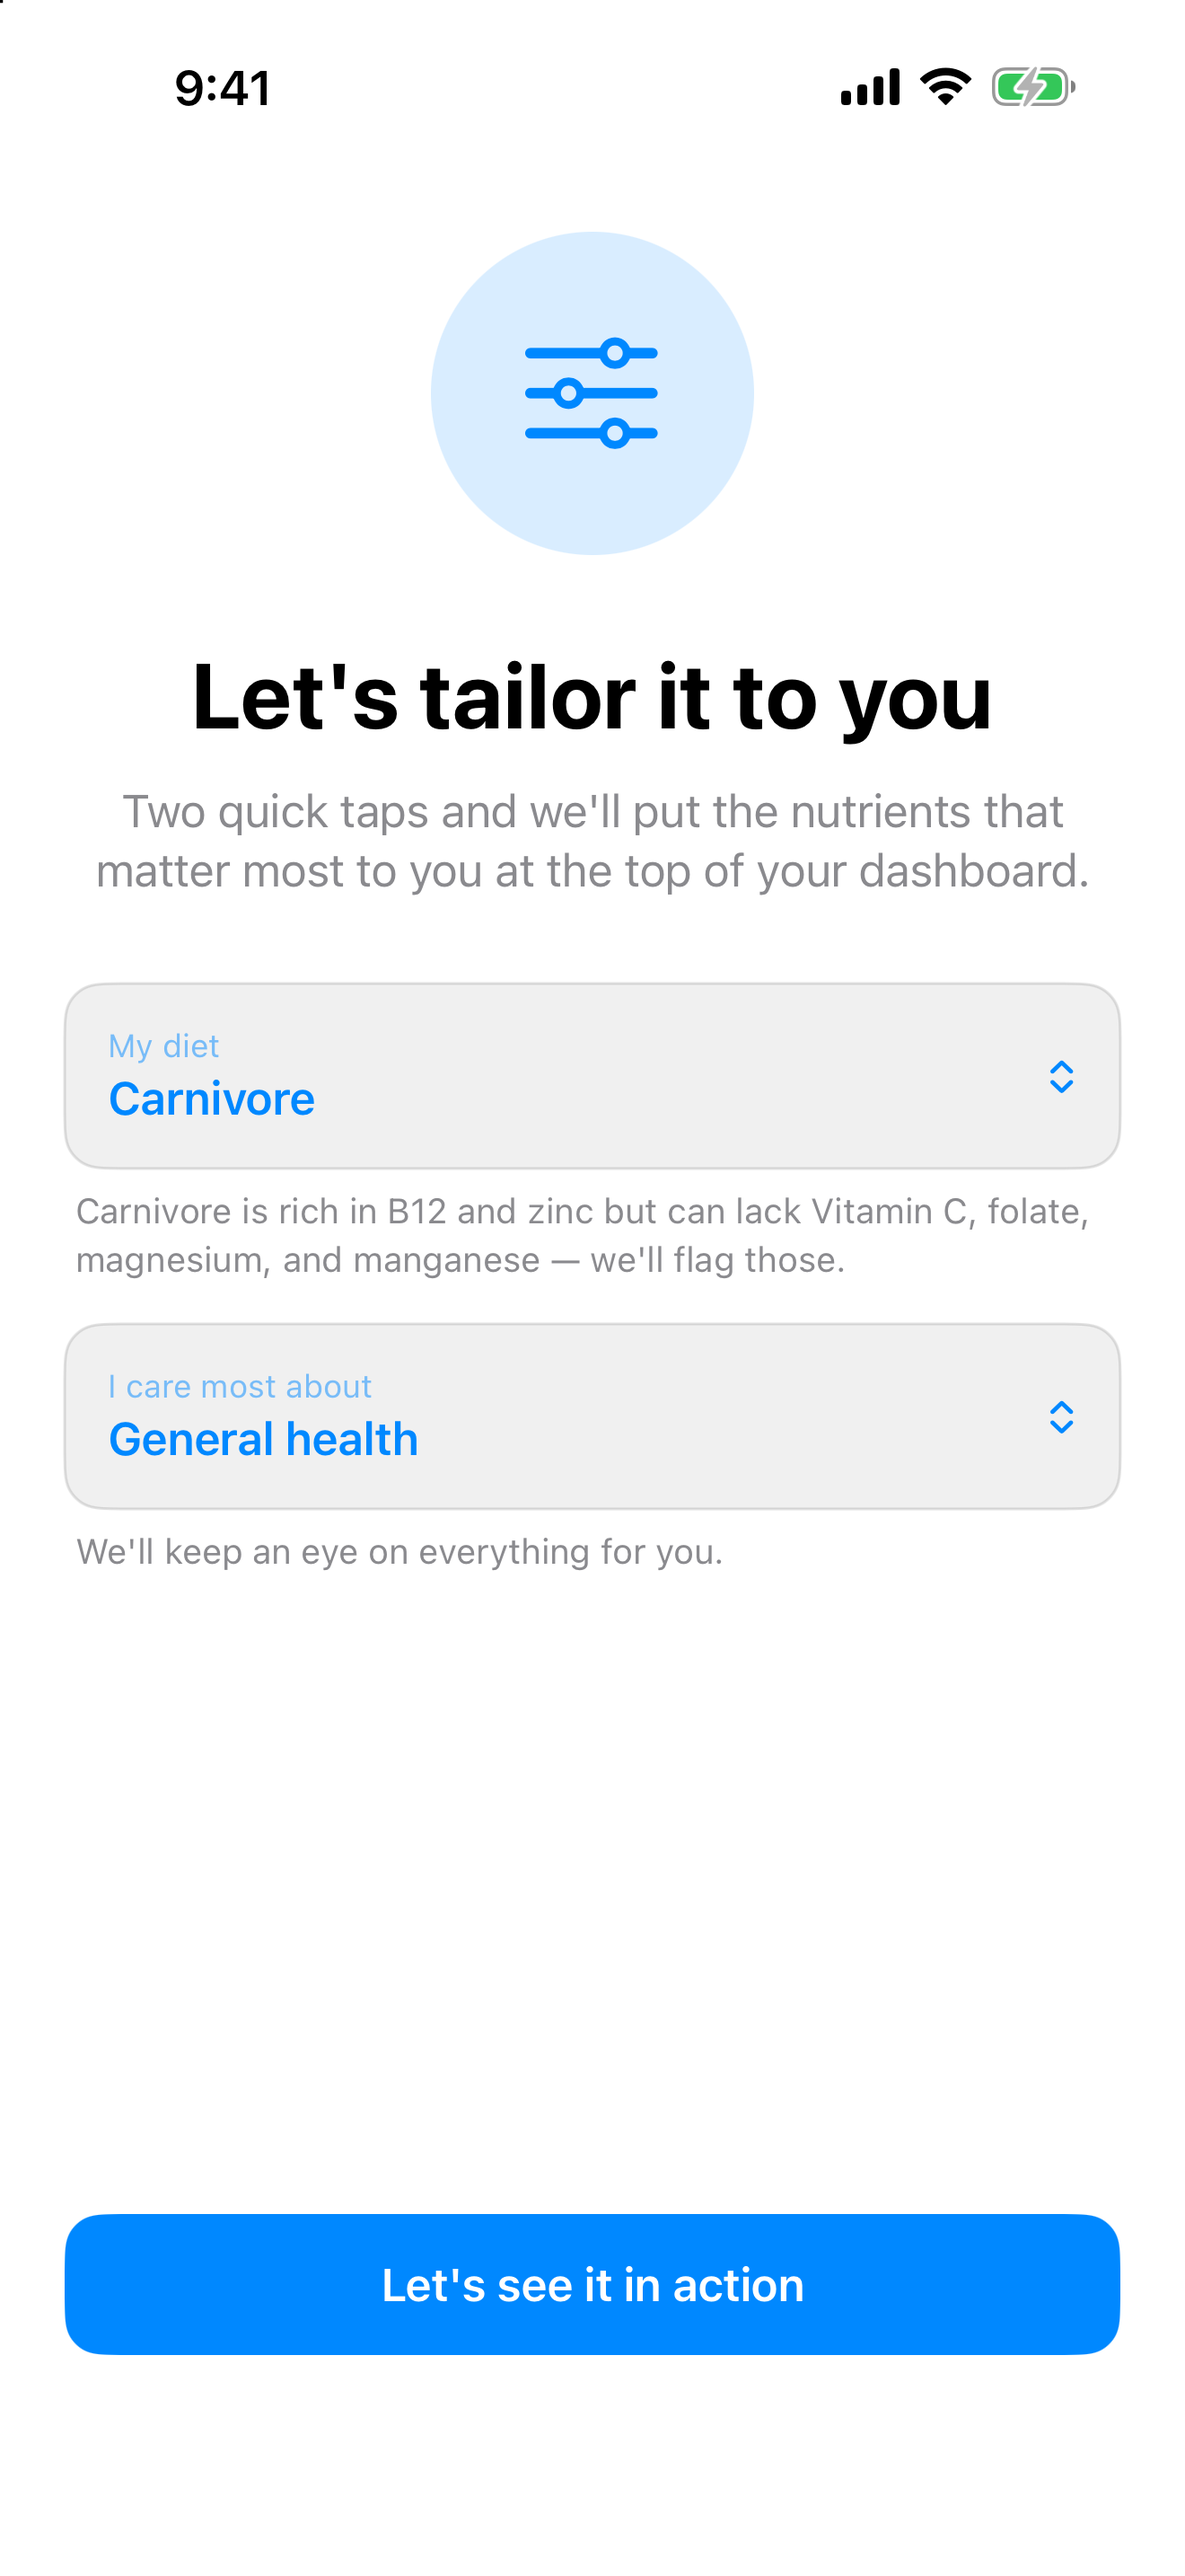
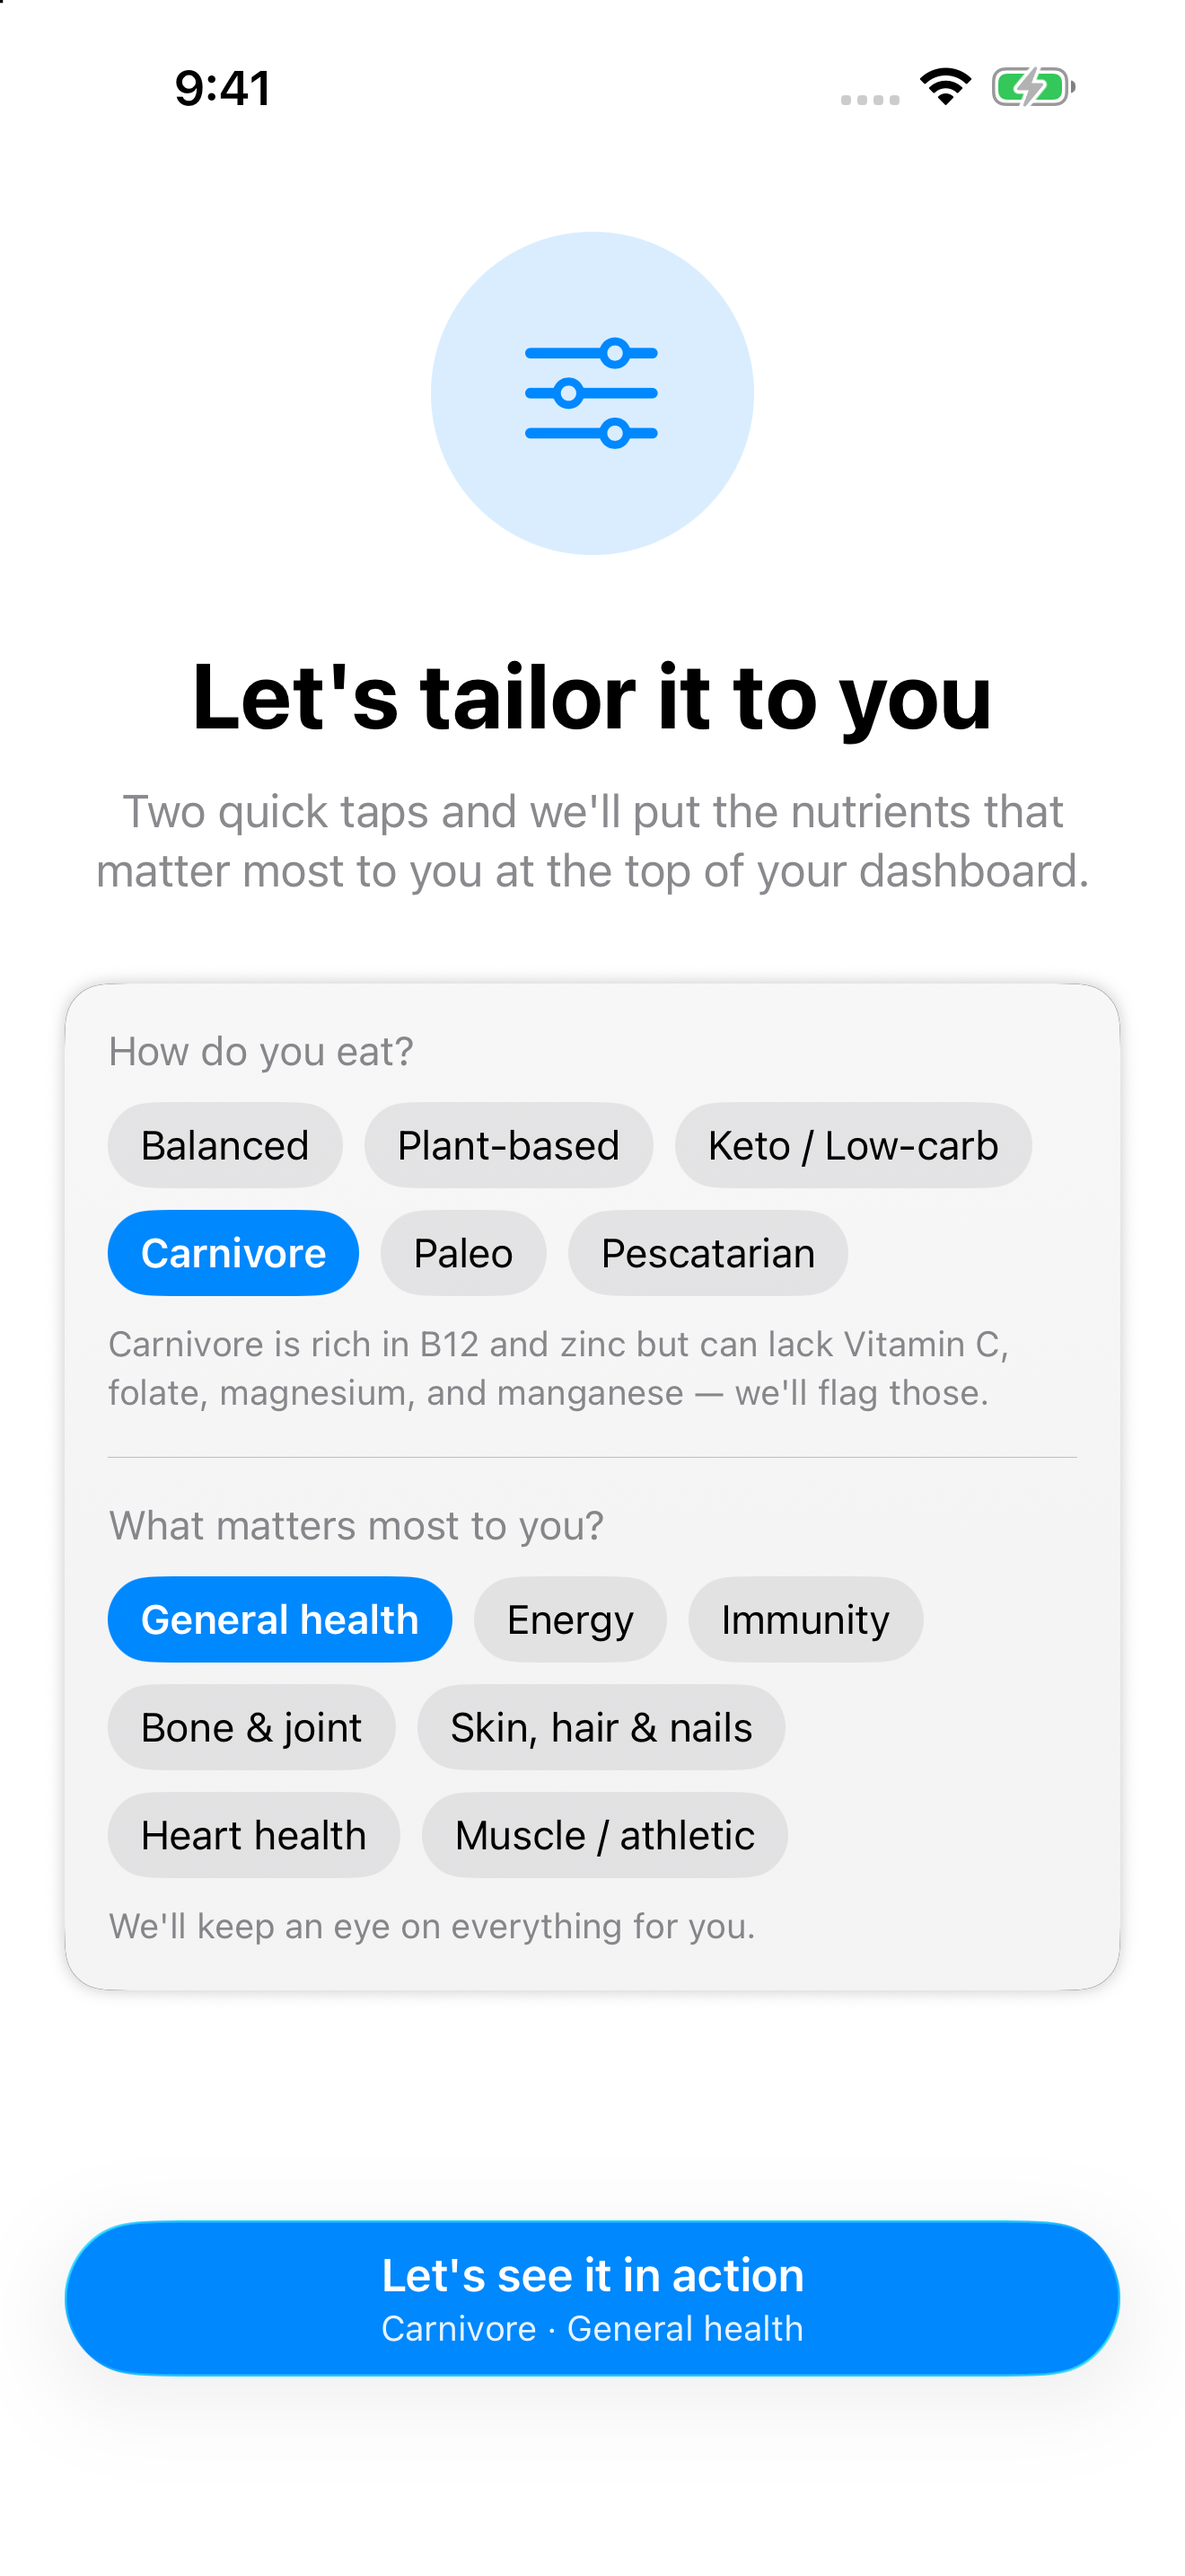
Show every diet and focus as a pill instead of a menu
The onboarding question and the Diet & Focus settings hid their options
in menus, so someone eating carnivore never saw that the app speaks to
them until they opened one. Both now show all answers as pills with the
explanation under them, and onboarding's button reads back the choices
in the shared Liquid Glass style. Store screenshot 2 recaptured.

diff --git a/Nutrient Logger/Scenes/Onboarding/OnboardingPersonalizationView.swift b/Nutrient Logger/Scenes/Onboarding/OnboardingPersonalizationView.swift
@@ -65,82 +65,40 @@ struct OnboardingPersonalizationView: View {
                         .padding(.top, 12)
                         .padding(.bottom, 32)
 
-                    QuestionCard(title: "My diet", value: diet.label, reflectBack: diet.reflectBack) {
-                        Picker("My diet", selection: $diet) {
-                            ForEach(NutritionDietPreset.allCases) { preset in
-                                Text(preset.label).tag(preset)
-                            }
-                        }
+                    VStack(spacing: 0) {
+                        ChoiceQuestion(
+                            title: "How do you eat?",
+                            options: NutritionDietPreset.allCases,
+                            label: \.label,
+                            selection: $diet,
+                            note: diet.reflectBack
+                        )
+                        .padding()
+                        Divider().padding(.horizontal)
+                        ChoiceQuestion(
+                            title: "What matters most to you?",
+                            options: NutritionConcern.allCases,
+                            label: \.label,
+                            selection: $concern,
+                            note: concern.reflectBack
+                        )
+                        .padding()
                     }
-                    .padding(.horizontal, 24)
-                    .padding(.bottom, 16)
-
-                    QuestionCard(title: "I care most about", value: concern.label, reflectBack: concern.reflectBack) {
-                        Picker("I care most about", selection: $concern) {
-                            ForEach(NutritionConcern.allCases) { concern in
-                                Text(concern.label).tag(concern)
-                            }
-                        }
-                    }
+                    .inCard(backgroundColor: Color.gray)
                     .padding(.horizontal, 24)
                     .padding(.bottom, 24)
                 }
             }
 
-            Button(action: continueAction) {
-                Text("Let's see it in action")
-                    .font(.headline)
-                    .frame(maxWidth: .infinity)
-                    .padding()
-                    .background(Color.accentColor)
-                    .foregroundStyle(.white)
-                    .clipShape(RoundedRectangle(cornerRadius: 14))
-            }
-            .padding(.horizontal, 24)
-            .padding(.bottom, 48)
-        }
-    }
-
-    @ViewBuilder private func QuestionCard<Options: View>(
-        title: String,
-        value: String,
-        reflectBack: String,
-        @ViewBuilder options: () -> Options
-    ) -> some View {
-        VStack(alignment: .leading, spacing: 8) {
-            Menu {
-                options()
-            } label: {
-                HStack {
-                    VStack(alignment: .leading, spacing: 2) {
-                        Text(title)
-                            .font(.caption)
-                            .foregroundStyle(.secondary)
-                        Text(value)
-                            .font(.headline)
-                            .foregroundStyle(Color.accentColor)
-                    }
-                    Spacer()
-                    Image(systemName: "chevron.up.chevron.down")
-                        .font(.caption.weight(.semibold))
-                        .foregroundStyle(Color.accentColor)
-                }
-                .padding()
-                .background(
-                    RoundedRectangle(cornerRadius: 14)
-                        .fill(Color.primary.opacity(0.06))
-                        .overlay(
-                            RoundedRectangle(cornerRadius: 14)
-                                .stroke(Color.primary.opacity(0.12), lineWidth: 1)
-                        )
-                )
-            }
-
-            Text(reflectBack)
-                .font(.footnote)
-                .foregroundStyle(.secondary)
-                .padding(.horizontal, 4)
-                .animation(.easeInOut(duration: 0.2), value: reflectBack)
+            // Reads back the answers, so the button says what it'll set up.
+            LogActionButton(
+                title: "Let's see it in action",
+                detail: "\(diet.label) · \(concern.label)",
+                isEnabled: true,
+                action: continueAction
+            )
+            .padding(.horizontal, 8)
+            .padding(.bottom, 32)
         }
     }
 }

diff --git a/Nutrient Logger/Scenes/Dashboard/NutritionPersonalizationSettingsView.swift b/Nutrient Logger/Scenes/Dashboard/NutritionPersonalizationSettingsView.swift
@@ -69,25 +69,24 @@ struct NutritionPersonalizationSettingsView: View {
     var body: some View {
         Form {
             Section {
-                Picker("Diet", selection: $diet) {
-                    ForEach(NutritionDietPreset.allCases) { preset in
-                        Text(preset.label).tag(preset)
-                    }
-                }
-                Picker("Focus", selection: $concern) {
-                    ForEach(NutritionConcern.allCases) { concern in
-                        Text(concern.label).tag(concern)
-                    }
-                }
+                ChoiceQuestion(
+                    title: "Diet",
+                    options: NutritionDietPreset.allCases,
+                    label: \.label,
+                    selection: $diet,
+                    note: diet.reflectBack
+                )
+                .padding(.vertical, 6)
+                ChoiceQuestion(
+                    title: "Focus",
+                    options: NutritionConcern.allCases,
+                    label: \.label,
+                    selection: $concern,
+                    note: concern.reflectBack
+                )
+                .padding(.vertical, 6)
             } header: {
                 Text("Diet & Focus")
-            } footer: {
-                VStack(alignment: .leading, spacing: 8) {
-                    ReflectBackLine(diet.reflectBack)
-                    ReflectBackLine(concern.reflectBack)
-                }
-                .animation(.easeInOut(duration: 0.2), value: diet)
-                .animation(.easeInOut(duration: 0.2), value: concern)
             }
 
             Section {
@@ -133,21 +132,6 @@ struct NutritionPersonalizationSettingsView: View {
     }
 }
 
-/// One reflect-back line under the pickers, prefixed with a small accent bullet so the two read as a
-/// short list.
-private struct ReflectBackLine: View {
-    let text: String
-    init(_ text: String) { self.text = text }
-
-    var body: some View {
-        HStack(alignment: .firstTextBaseline, spacing: 6) {
-            Image(systemName: "circle.fill")
-                .font(.system(size: 4))
-                .foregroundStyle(Color.accentColor)
-            Text(text)
-        }
-    }
-}
 
 #Preview("No customization") {
     let _ = swinjectContainer.autoregister(UserService.self) { MockUserService(currentUser: .sample) }

diff --git a/Nutrient Logger/Views/ChoiceQuestion.swift b/Nutrient Logger/Views/ChoiceQuestion.swift
@@ -1,0 +1,38 @@
+//
+//  ChoiceQuestion.swift
+//  Nutrient Logger
+//
+//  Created by Jason Vance on 11/6/26.
+//
+
+import SwiftUI
+
+/// A question with every answer visible as a pill, and a line under it that explains the current
+/// answer. Showing the options beats a menu that hides them: someone eating carnivore sees
+/// "Carnivore" on screen and knows the app was built for them.
+struct ChoiceQuestion<Option: Hashable>: View {
+    let title: String
+    let options: [Option]
+    let label: (Option) -> String
+    @Binding var selection: Option
+    /// Explains the current answer, e.g. what the app will watch for this diet.
+    let note: String
+
+    var body: some View {
+        VStack(alignment: .leading, spacing: 10) {
+            LogFieldLabel(title)
+            LogPillRow(
+                items: options,
+                labels: options.map(label),
+                isSelected: { $0 == selection },
+                onSelect: { option in withAnimation(.snappy) { selection = option } }
+            )
+            Text(note)
+                .font(.footnote)
+                .foregroundStyle(.secondary)
+                .fixedSize(horizontal: false, vertical: true)
+                .contentTransition(.opacity)
+                .animation(.easeInOut(duration: 0.2), value: note)
+        }
+    }
+}
